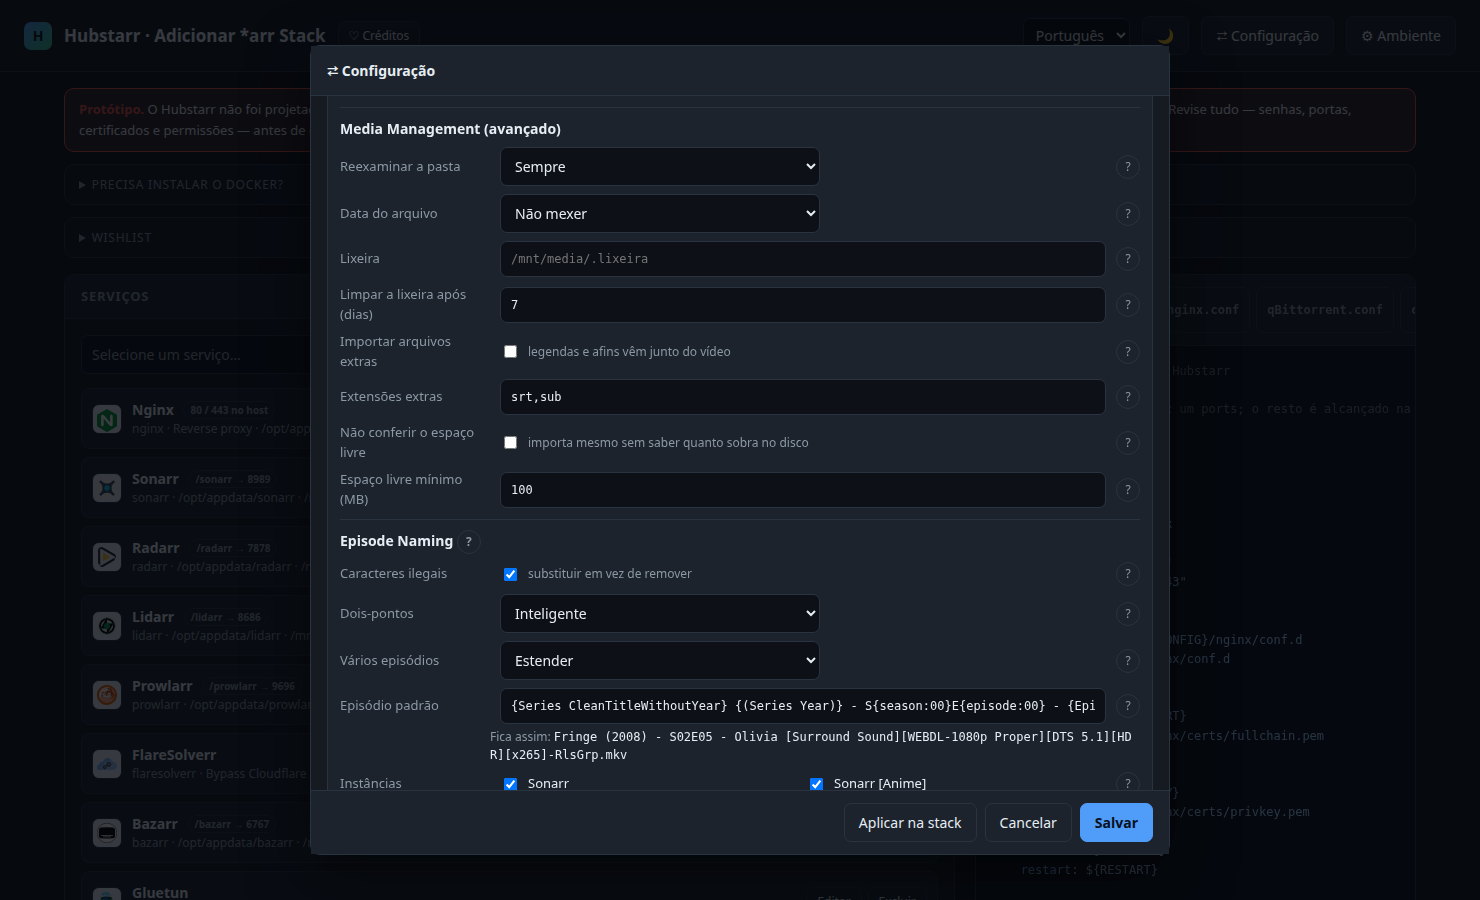
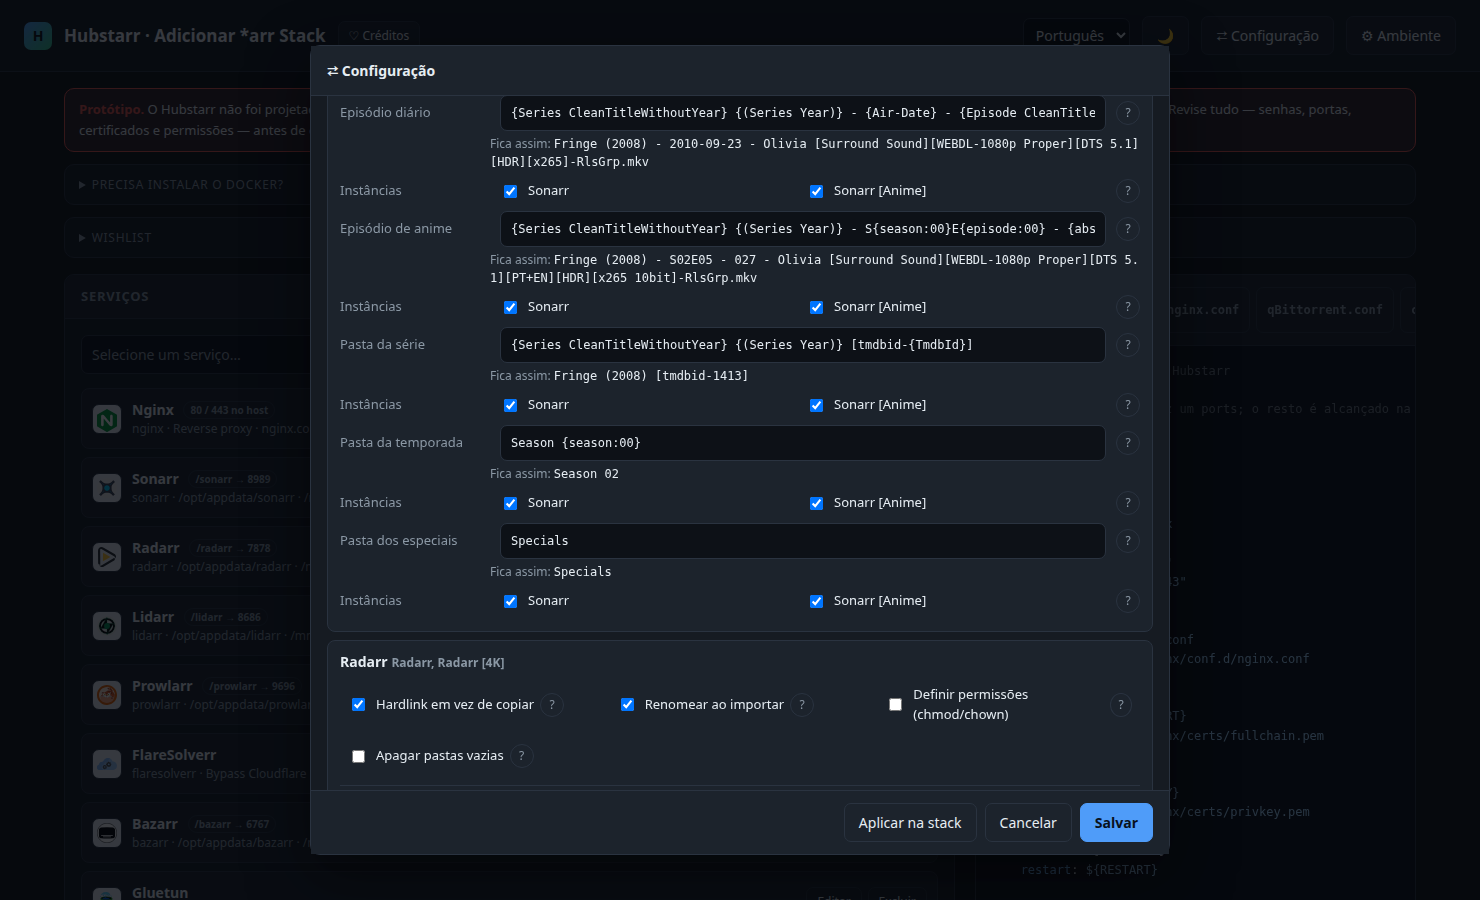
Escolhe as instâncias também nas três pastas do Sonarr
Pasta da série, da temporada e dos especiais ganham a mesma lista dos formatos
de episódio: de fábrica todas as instâncias recebem, e desmarcar deixa aquela
com a pasta que ela já tem no app.

Claude-Session: https://claude.ai/code/session_01Eb871Fqsz7GGPfnUDp8g5m

diff --git a/hubstarr.html b/hubstarr.html
@@ -2562,9 +2562,9 @@ const NAMING_FIELDS = {
      def:'{Series CleanTitleWithoutYear} {(Series Year)} - {Air-Date} - {Episode CleanTitle:90} {[Custom Formats]}{[Quality Full]}{[Mediainfo AudioCodec}{ Mediainfo AudioChannels]}{[MediaInfo VideoDynamicRangeType]}{[Mediainfo VideoCodec]}{-Release Group}'},
     {k:'animeEp',        type:'fmt', file:true, perInst:true,
      def:'{Series CleanTitleWithoutYear} {(Series Year)} - S{season:00}E{episode:00} - {absolute:000} - {Episode CleanTitle:90} {[Custom Formats]}{[Quality Full]}{[Mediainfo AudioCodec}{ Mediainfo AudioChannels]}{MediaInfo AudioLanguages}{[MediaInfo VideoDynamicRangeType]}[{Mediainfo VideoCodec }{MediaInfo VideoBitDepth}bit]{-Release Group}'},
-    {k:'seriesFolder',   type:'fmt', def:'{Series CleanTitleWithoutYear} {(Series Year)} [tmdbid-{TmdbId}]'},
-    {k:'seasonFolder',   type:'fmt', def:'Season {season:00}'},
-    {k:'specialsFolder', type:'fmt', def:'Specials'},
+    {k:'seriesFolder',   type:'fmt', perInst:true, def:'{Series CleanTitleWithoutYear} {(Series Year)} [tmdbid-{TmdbId}]'},
+    {k:'seasonFolder',   type:'fmt', perInst:true, def:'Season {season:00}'},
+    {k:'specialsFolder', type:'fmt', perInst:true, def:'Specials'},
   ],
   radarr:[
     {k:'illegal',        type:'check',  def:true},

diff --git a/README.md b/README.md
@@ -130,10 +130,10 @@ E o campo **Tema** mostra a captura da paleta escolhida sem sair da página:
 
   ![O modal da Configuração, na nomenclatura de episódio do Sonarr](docs/config.png)
 
-  Com mais de um Sonarr na stack, cada
-  formato de episódio — **padrão**, **diário** e **anime** — traz a lista das
-  instâncias que o recebem: dá para mandar o formato de anime só para o
-  *Sonarr [Anime]*, por exemplo. De fábrica todas as instâncias recebem todos os
+  Com mais de um Sonarr na stack, cada formato dele — os três de episódio
+  (**padrão**, **diário** e **anime**) e as três pastas (**série**,
+  **temporada** e **especiais**) — traz a lista das instâncias que o recebem:
+  dá para mandar o formato de anime só para o *Sonarr [Anime]*, por exemplo. De fábrica todas as instâncias recebem todos os
   formatos; pelo menos uma é obrigatória no formato padrão, porque o campo é
   obrigatório no app, e a que você desmarcar mantém o formato que já tem, em vez
   de perdê-lo. As três partes da Configuração chegam aos apps pelo **Subir** e

diff --git a/README.es.md b/README.es.md
@@ -138,9 +138,10 @@ Y el campo **Tema** muestra la captura de la paleta elegida sin salir de la pág
   ![El modal de Configuración, en la nomenclatura de episodio de Sonarr](docs/config.png)
 
   Con más de un Sonarr en la
-  stack, cada formato de episodio — **estándar**, **diario** y **anime** — trae
-  la lista de las instancias que lo reciben: se puede mandar el formato de anime
-  solo al *Sonarr [Anime]*, por ejemplo. De fábrica todas las instancias reciben
+  stack, cada formato suyo — los tres de episodio (**estándar**, **diario** y
+  **anime**) y las tres carpetas (**serie**, **temporada** y **especiales**) —
+  trae la lista de las instancias que lo reciben: se puede mandar el formato de
+  anime solo al *Sonarr [Anime]*, por ejemplo. De fábrica todas las instancias reciben
   todos los formatos; al menos una es obligatoria en el formato predeterminado,
   porque el campo es obligatorio en el app, y la que desmarques conserva el
   formato que ya tiene, en vez de perderlo. Las tres partes de la Configuración

diff --git a/README.en.md b/README.en.md
@@ -132,9 +132,10 @@ And the **Theme** field shows the chosen palette's screenshot without leaving th
   ![The Configuration modal, on Sonarr's episode naming](docs/config.png)
 
   With more
-  than one Sonarr in the stack, each episode format — **standard**, **daily**
-  and **anime** — carries the list of instances that get it: you can send the
-  anime format to *Sonarr [Anime]* only, say. Out of the box every instance gets
+  than one Sonarr in the stack, each of its formats — the three episode ones
+  (**standard**, **daily** and **anime**) and the three folders (**series**,
+  **season** and **specials**) — carries the list of instances that get it: you
+  can send the anime format to *Sonarr [Anime]* only, say. Out of the box every instance gets
   every format; at least one is mandatory on the default format, because the
   field is mandatory in the app, and whichever you untick keeps the format it
   already has instead of losing it. All three parts of the Configuration reach

diff --git a/CLAUDE.md b/CLAUDE.md
@@ -93,7 +93,7 @@ O script é uma sequência de seções marcadas por comentários `/* ---------- 
    O Media Management é **por família**, com uma exceção: campo do
    `NAMING_FIELDS` marcado com `perInst` vale por instância, e quais delas o
    recebem fica em `mm[família].naming.scope[campo][chave da instância]` — hoje
-   são os três formatos de episódio do Sonarr. O escopo mora *dentro* do
+   são os seis formatos do Sonarr: os três de episódio e as três pastas. O escopo mora *dentro* do
    `naming` de propósito: é o que o `cfg_naming` já guarda inteiro, em JSON, sem
    coluna nem migração. De fábrica toda instância recebe todos os formatos.
    **Pelo menos uma instância marcada no formato padrão é obrigatório** — o
